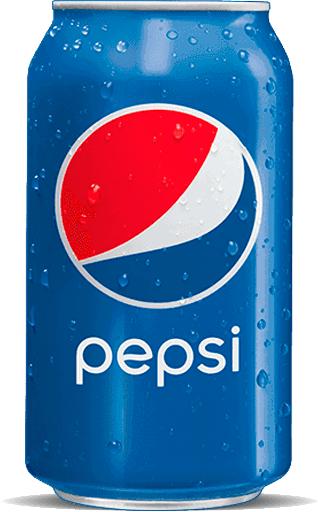
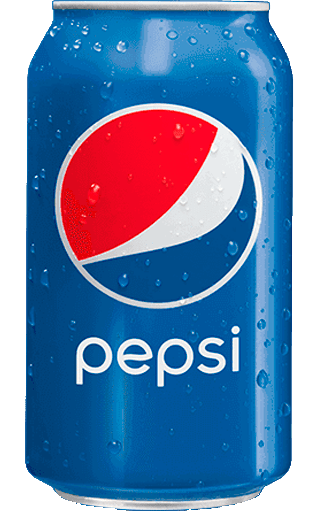
add can image

Changed region(s): [[0.625, 0.9375, 0.9688, 1.0], [0.0312, 0.9375, 0.375, 1.0]]

diff --git a/src/Content.js b/src/Content.js
@@ -1,0 +1,17 @@
+import React from 'react'
+import can from './imgs/can.png'
+
+const Content = () => {
+  return (
+    <div className='container'>
+     <div className='text'>
+
+     </div>
+     <div className='can'>
+      <img src={can} alt="" srcset="" />
+     </div>
+    </div>
+  )
+}
+
+export default Content

diff --git a/src/App.js b/src/App.js
@@ -1,11 +1,13 @@
 import React from 'react'
 import Header from './Header'
+import Content from './Content'
 import './App.css'
 
 function App() {
   return (
     <div className='App'>
       <Header />
+      <Content />
     </div>
   )
 }
